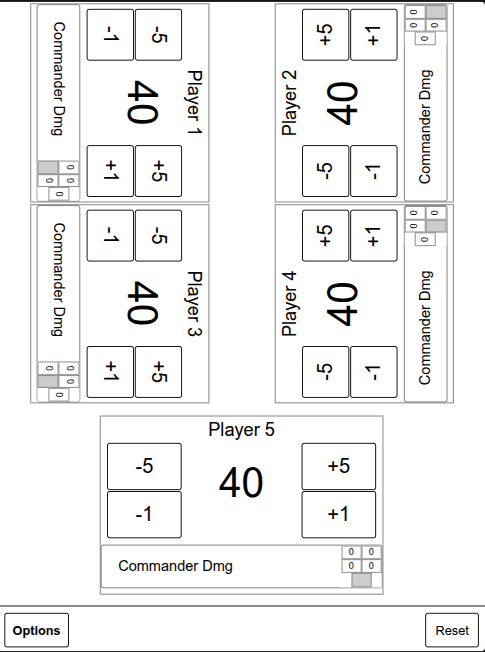
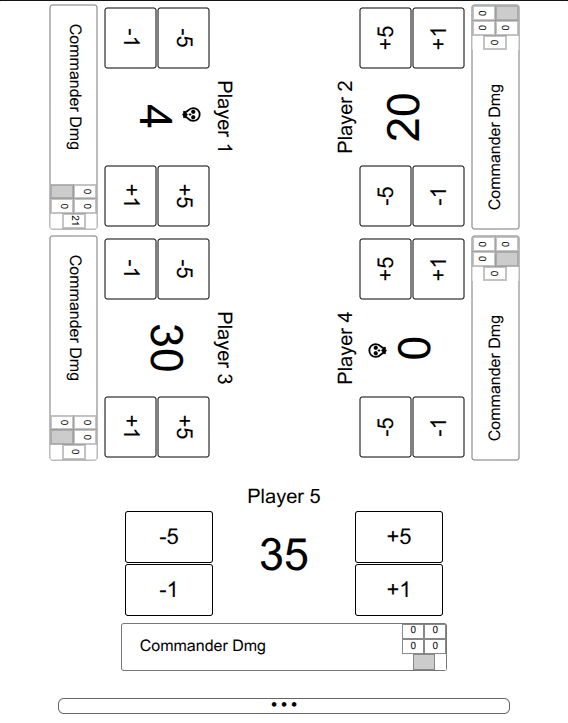
Readme and screenshots update

Changed region(s): [[0.0, 0.0, 1.0, 1.0], [0.9897, 0.0, 1.0, 0.0307]]

diff --git a/README.md b/README.md
@@ -1,9 +1,23 @@
 # E-Reader MTG Life Counter
 
-An e-paper-friendly MTG life counter for 2-6 players, optimized for the Tolino Vision 4 HD browser.
-It is a standalone HTML app and can run either from a LAN server or from the Android localhost-server APK, which also beginners should be able to install easily.
+An e-paper-friendly MTG life counter for 2-6 players, optimized for the Tolino Vision 4 HD, but might work on many other old ebook readers (Android 4 era) or can be adopted to them.
+
+Implementation: Basically a standalone HTML app with a twist: It is bundled into an APK that can be installed with minimum intrusion to the existing reader, and then opened with the internal webbrowser - beginner-friendly. Of course the html can also just be hosted or opened anywhere else, but with the apk it also works offline.
+
+Some Features:
+ - Persistent state (both HTML5 local storage, and cookies, because the tolino browser deletes local storage on each restart)
+ - GUI options to rotate every player
+ - Commander damage overlay
+ - Minimum risk to the ebook reader's system
 
 ![MTG Life Counter on Tolino](screenshot.png)
+![Commander Damage Overlay](screenshotoverlay.png)
+
+Missing Features, might be implemented later, but so far I think it clutters the GUI unnecessarily:
+ - Dual/Partner commanders: separate damage support
+ - Various points counting (poison, rad, ....)
+ - Dice throw / randomized starting player
+
 
 ## Install the APK
 
